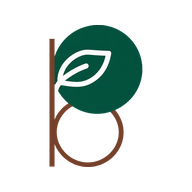
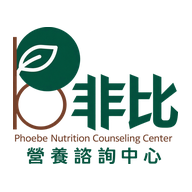
Add files via upload

diff --git a/docs/style.css b/docs/style.css
@@ -32,12 +32,12 @@ button, input, select, textarea { font: inherit; }
   border-bottom: 3px solid var(--blue);
   padding: 8px 14px; padding-top: max(8px, env(safe-area-inset-top)); }
 .brand { font-weight: 700; letter-spacing: .5px; display: flex; align-items: center; gap: 8px; white-space: nowrap; }
-.brand img { width: 32px; height: 32px; }
-.brand small { color: var(--brown); font-weight: 500; font-size: 13px; }
+.brand img { height: 46px; width: auto; display: block; }
+.brand span { border-left: 1px solid var(--line); padding-left: 10px; }
 .who { font-size: 14px; display: flex; gap: 8px; align-items: center; color: var(--text); }
 .who .role { background: var(--brown-l); color: var(--brown); border-radius: 10px; padding: 0 8px; font-size: 12px; }
 .who button { background: transparent; color: var(--blue); border: 1px solid var(--blue); border-radius: 6px; padding: 2px 10px; cursor: pointer; }
-@media (max-width: 380px) { .brand small { display: none; } }
+@media (max-width: 380px) { .brand img { height: 40px; } .brand span { font-size: 15px; } }
 
 main { max-width: 860px; margin: 0 auto; padding: 12px 12px 80px; }
 
@@ -148,7 +148,7 @@ table.list th { background: var(--brown-l); color: var(--brown); font-weight: 60
 .busy { position: fixed; inset: 0; z-index: 70; background: rgba(255,255,255,.4); display: flex; align-items: center; justify-content: center; }
 .spinner { width: 36px; height: 36px; border: 4px solid var(--blue-l); border-top-color: var(--blue); border-radius: 50%; animation: spin .8s linear infinite; }
 @keyframes spin { to { transform: rotate(360deg); } }
-.sync { position: fixed; top: calc(60px + env(safe-area-inset-top)); right: 12px; z-index: 60; font-size: 13px;
+.sync { position: fixed; top: calc(70px + env(safe-area-inset-top)); right: 12px; z-index: 60; font-size: 13px;
   background: var(--brown-l); color: var(--brown); padding: 2px 10px; border-radius: 10px; box-shadow: 0 1px 3px rgba(0,0,0,.08); }
 .sync::before { content: ''; display: inline-block; width: 8px; height: 8px; border-radius: 50%; background: var(--brown); margin-right: 6px; animation: pulse 1s infinite; }
 .sync.done { background: var(--ok-l); color: var(--ok); }

diff --git a/docs/index.html b/docs/index.html
@@ -14,7 +14,7 @@
 </head>
 <body>
 <header class="topbar">
-  <div class="brand"><img src="mark.png" alt="phoebe">派案追蹤 <small>phoebe</small></div>
+  <div class="brand"><img src="logo.png" alt="phoebe 營養諮詢中心"><span>派案追蹤</span></div>
   <div class="who" id="who"></div>
 </header>
 <main id="app"><div class="center muted">載入中…</div></main>
